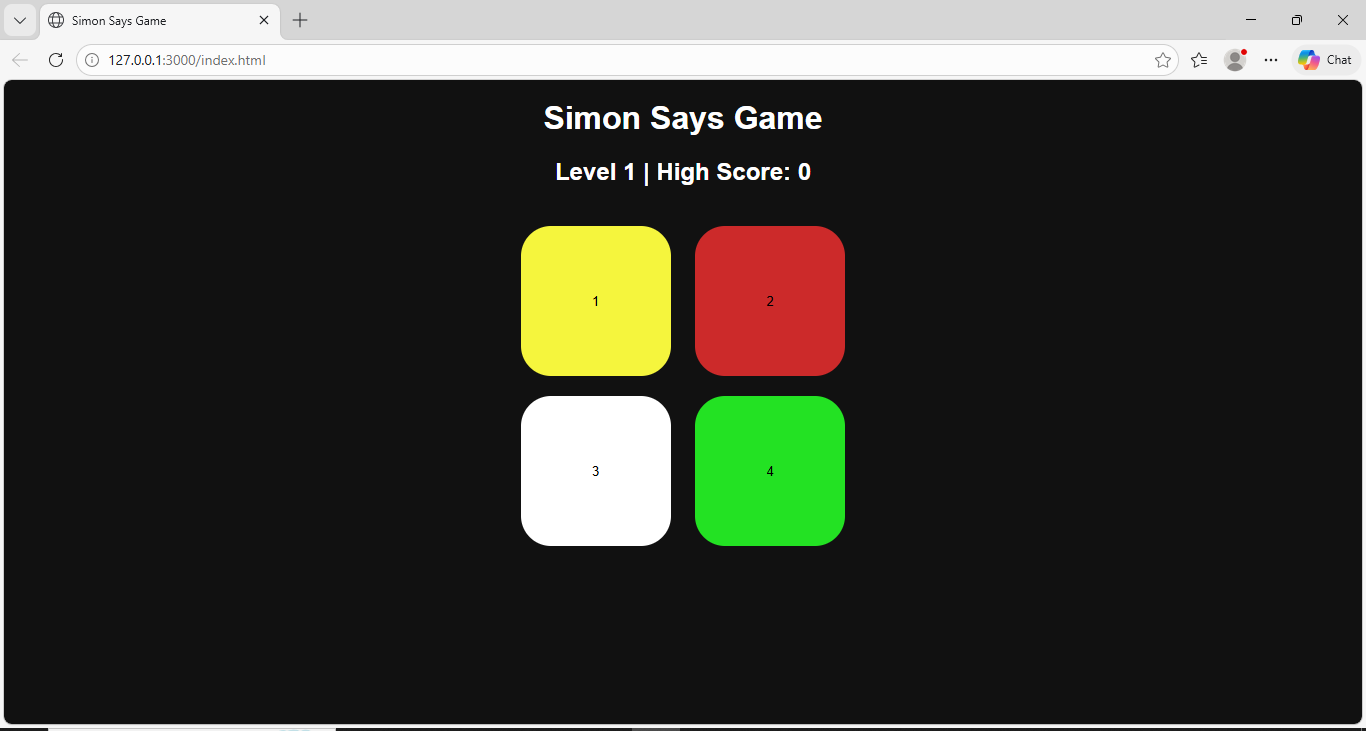
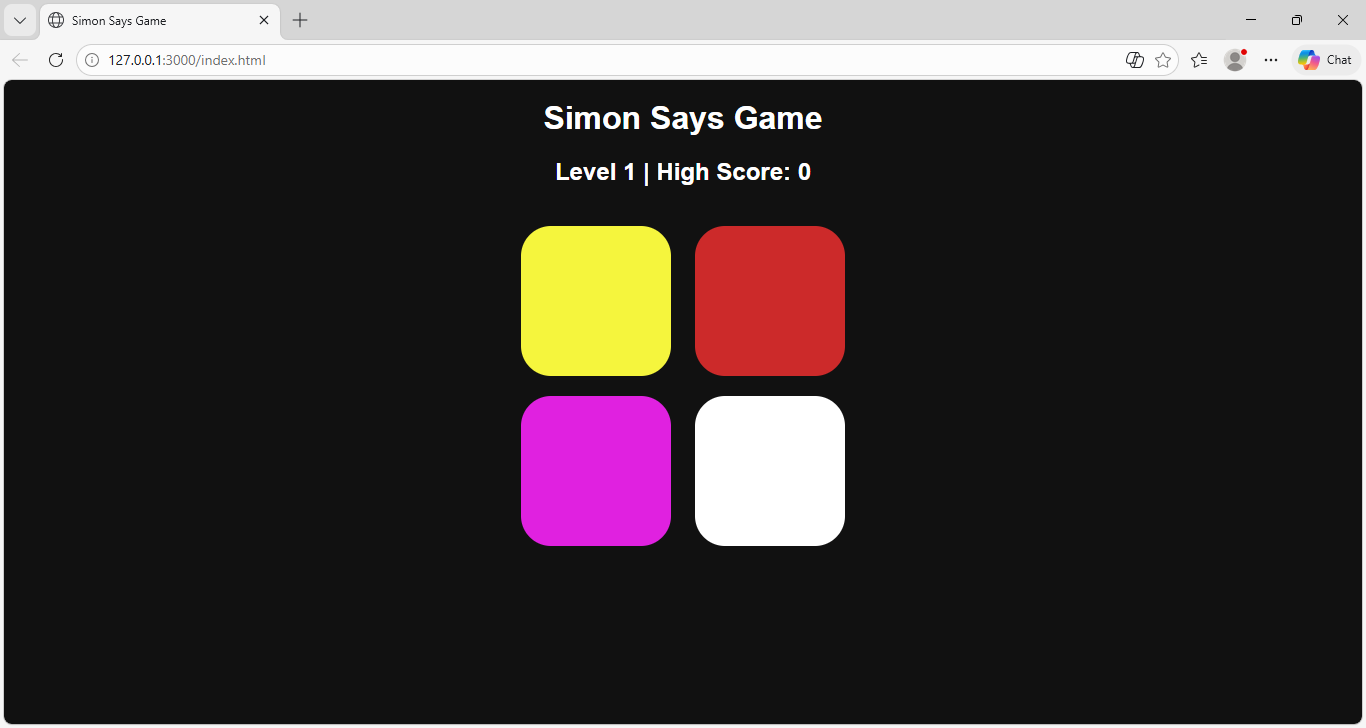
Improved UI, removed button numbers, updated README and screenshot

diff --git a/index.html b/index.html
@@ -14,12 +14,12 @@
     <h2>Press any key to start the Game</h2>
     <div class="btn-container">
         <div class="line-one">
-            <button class="btn yellow" id="yellow" type="button">1</button>
-            <button class="btn red" id="red" type="button">2</button>
+            <button class="btn yellow" id="yellow" type="button"></button>
+            <button class="btn red" id="red" type="button"></button>
         </div>
         <div class="line-two">
-            <button class="btn purple" id="purple" type="button">3</button>
-            <button class="btn green" id="green" type="button">4</button>
+            <button class="btn purple" id="purple" type="button"></button>
+            <button class="btn green" id="green" type="button"></button>
         </div>
     </div>
 

diff --git a/README.md b/README.md
@@ -20,10 +20,11 @@ A simple and interactive Simon Says game built using HTML, CSS, and JavaScript.
 - JavaScript
 
 ## 📸 Screenshot
-![Game Screenshot](Screenshot.png)
+Here’s a preview of the game:
+![Game Screenshot](screenshot.png)
 
 ## 🌐 Live Demo
-Coming Soon...
+👉 [Play the Game](https://ankkitsingh.github.io/simon-says-game/)
 
 ---
 
